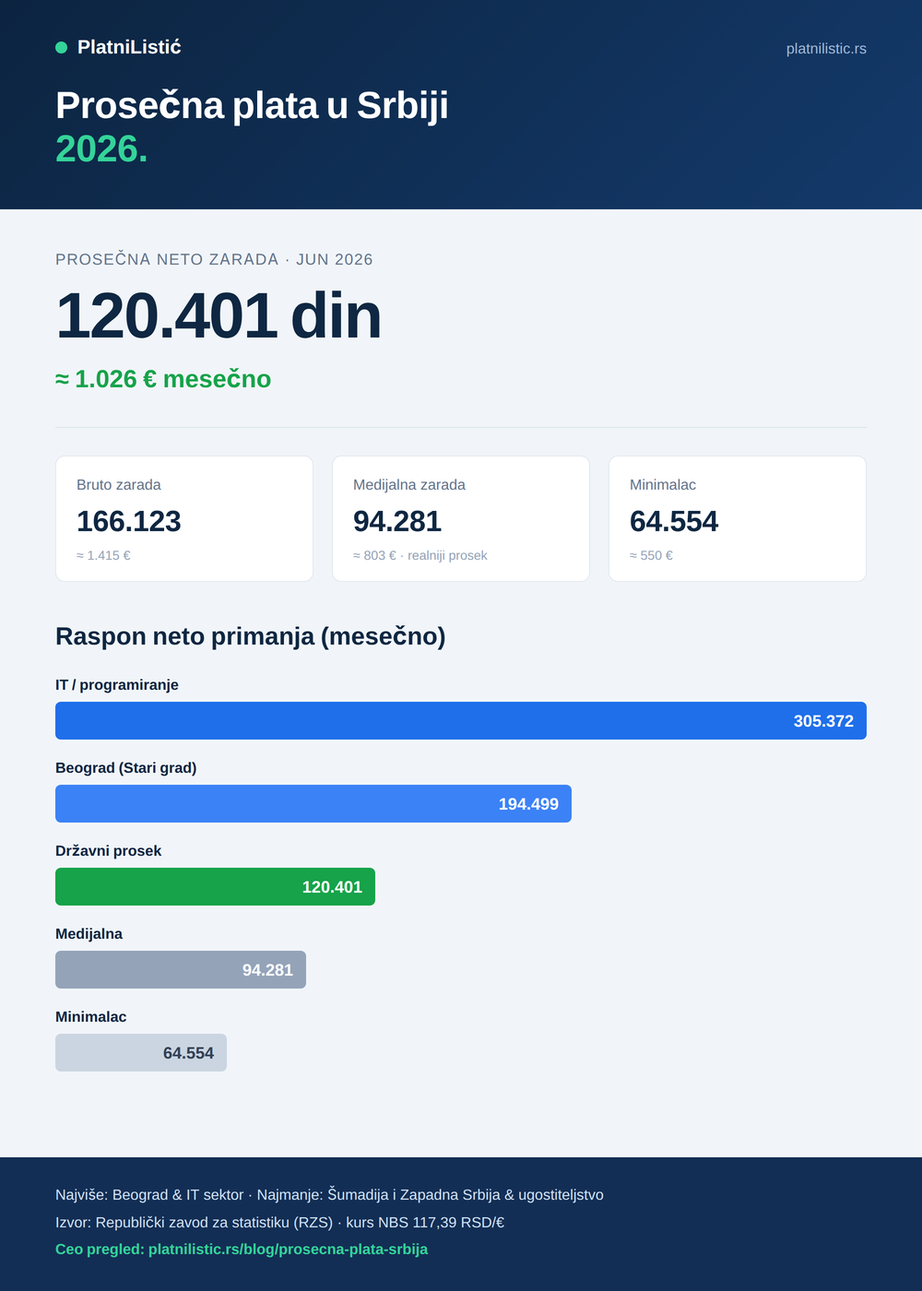
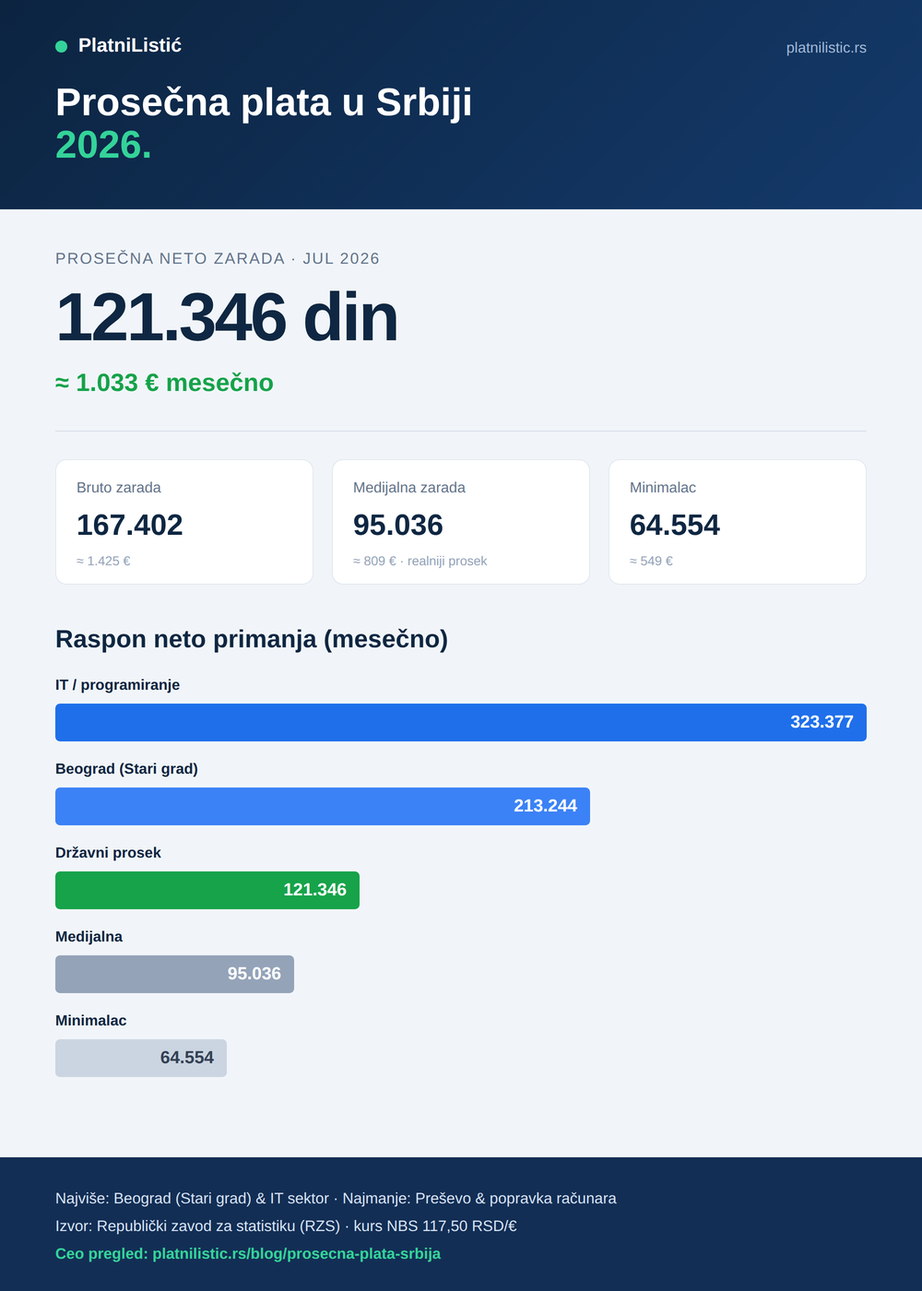
data(rzs): refresh average salary to July 2026 (ZR10 br. 262, 25.9.2026)
Neto 121.346, bruto 167.402, medijalna 95.036; NBS kurs 117,50.
rates.js cascades to /prosecna-zarada, otpremnina, jubilarna and
godišnji porez. Hand-edited: prosecna-plata-srbija (July sector and
opština tables — the three non-Belgrade regions dropped because no July
figure is published for them yet, rather than mixing months), jubilarna
multiples, otkaz 2x example, porodiljsko 5x cap, kupovna moć note,
posts.js title/summaries. All three SVG charts and both PNGs regenerated.

Claude-Session: https://claude.ai/code/session_01N1grpLejUmKifJT8qkwBPE

diff --git a/src/posts/prosecna-plata-srbija.js b/src/posts/prosecna-plata-srbija.js
@@ -1,28 +1,28 @@
 // Body + FAQ for "prosecna-plata-srbija". Split out of posts.js so a reader
 // downloads only the article they open — see loadPostBody() in Blog.jsx.
 export const body = `
-![Prosečna plata u Srbiji, jun 2026 — neto 120.401 dinara (≈1.026 €), bruto 166.123, medijalna 94.281, IT 305.372, minimalac 64.554.](/media/prosecna-plata-2026.png)
+![Prosečna plata u Srbiji, jul 2026 — neto 121.346 dinara (≈1.033 €), bruto 167.402, medijalna 95.036, IT 323.377, minimalac 64.554.](/media/prosecna-plata-2026.png)
 
-> **Provereno i ažurirano: 27. avgusta 2026.** Iznosi su usklađeni sa zvaničnim saopštenjima Republičkog zavoda za statistiku (RZS). Statistika se objavljuje oko 55 dana po isteku meseca, pa je najsvežiji zvaničan podatak za jun 2026 (objavljen 25. avgusta 2026). Konverzija u evre po srednjem kursu NBS (1 € = 117,39 din).
+> **Provereno i ažurirano: 28. septembra 2026.** Iznosi su usklađeni sa zvaničnim saopštenjima Republičkog zavoda za statistiku (RZS). Statistika se objavljuje oko 55 dana po isteku meseca, pa je najsvežiji zvaničan podatak za jul 2026 (objavljen 25. septembra 2026). Konverzija u evre po srednjem kursu NBS na dan 28. septembra 2026 (1 € = 117,50 din).
 
-Prosečna plata u Srbiji iznosi **120.401 dinara neto (≈ 1.026 €)**, odnosno **166.123 dinara bruto** — najnoviji zvaničan podatak RZS-a, za jun 2026. Medijalna neto zarada je **94.281 dinara**: polovina zaposlenih prima manje od tog iznosa, pa medijalna plata bolje opisuje „tipičnu" zaradu od proseka. Neto zarada je u odnosu na maj viša za 2.003 din — uobičajena mesečna varijacija, ne trend. U nastavku: pregled po mesecima, sektorima i gradovima, u dinarima i evrima.
+Prosečna plata u Srbiji iznosi **121.346 dinara neto (≈ 1.033 €)**, odnosno **167.402 dinara bruto** — najnoviji zvaničan podatak RZS-a, za jul 2026. Medijalna neto zarada je **95.036 dinara**: polovina zaposlenih prima manje od tog iznosa, pa medijalna plata bolje opisuje „tipičnu" zaradu od proseka. Neto zarada je u odnosu na jun viša za 945 din — uobičajena mesečna varijacija, ne trend. U nastavku: pregled po mesecima, sektorima i gradovima, u dinarima i evrima.
 
 > **Napomena:** Ovaj tekst je informativnog karaktera. Zvaničan izvor svih iznosa je Republički zavod za statistiku; podaci se menjaju svakog meseca.
 
-## Ključne brojke (jun 2026, RZS)
+## Ključne brojke (jul 2026, RZS)
 
-- **Prosečna neto zarada:** 120.401 din ≈ 1.026 €
-- **Prosečna bruto zarada:** 166.123 din ≈ 1.415 €
-- **Medijalna neto zarada:** 94.281 din ≈ 803 €
-- **Najviše — IT sektor:** ~305.372 din ≈ 2.601 €
-- **Najviše — Beograd (prosek):** 148.687 din ≈ 1.267 €
-- **Najmanje — opština Preševo:** 82.777 din ≈ 705 € (regionalno najniže: Šumadija i Zapadna Srbija, 103.389 din)
+- **Prosečna neto zarada:** 121.346 din ≈ 1.033 €
+- **Prosečna bruto zarada:** 167.402 din ≈ 1.425 €
+- **Medijalna neto zarada:** 95.036 din ≈ 809 €
+- **Najviše — IT sektor (računarsko programiranje):** 323.377 din ≈ 2.752 €
+- **Najviše — Beograd (prosek regiona):** 149.577 din ≈ 1.273 €
+- **Najmanje — opština Preševo:** 83.504 din ≈ 711 €
 
 ## Prosečna plata po mesecima 2026
 
 Prosečna zarada varira iz meseca u mesec, zavisno od isplata bonusa, broja radnih dana i sezonskih kretanja. Trend je tokom 2026. uzlazan, uz izražena mesečna kolebanja:
 
-![Kretanje prosečne neto zarade u Srbiji po mesecima 2026 — januar 118.429, februar 116.127, mart 121.650, april 121.805, maj 118.398, jun 120.401 din.](/media/prosecna-neto-zarada-kretanje-2026.svg)
+![Kretanje prosečne neto zarade u Srbiji po mesecima 2026 — januar 118.429, februar 116.127, mart 121.650, april 121.805, maj 118.398, jun 120.401, jul 121.346 din.](/media/prosecna-neto-zarada-kretanje-2026.svg)
 
 | Mesec 2026. | Bruto zarada | Neto zarada | Medijalna neto |
 |---|---|---|---|
@@ -32,67 +32,71 @@ Prosečna zarada varira iz meseca u mesec, zavisno od isplata bonusa, broja radn
 | April | 168.008 din | 121.805 din | 94.585 din |
 | Maj | 163.470 din | 118.398 din | 93.277 din |
 | Jun | 166.123 din | 120.401 din | 94.281 din |
+| Jul | 167.402 din | 121.346 din | 95.036 din |
 
-U periodu januar–jun 2026, u odnosu na isti period prethodne godine, prosečna neto zarada nominalno je veća za **11,5%**, a realno (nakon inflacije) za **8,4%** — plate i dalje rastu brže od cena. Posmatrano samo za jun 2026. u odnosu na jun 2025, neto zarada je nominalno veća za **12,4%**, a realno za **9,4%**. Kompletna [tabela prosečnih zarada po mesecima](/prosecna-zarada) sa zvaničnim podacima RZS-a dostupna je na posebnoj stranici. Razliku između bruto i neto iznosa objašnjavamo u vodiču [bruto-neto razlika](/), a sastav doprinosa u tekstu [doprinosi u Srbiji](/blog/doprinosi-srbija).
+U periodu januar–jul 2026, u odnosu na isti period prethodne godine, prosečna neto zarada nominalno je veća za **11,4%**, a realno (nakon inflacije) za **8,5%** — plate i dalje rastu brže od cena. Posmatrano samo za jul 2026. u odnosu na jul 2025, neto zarada je nominalno veća za **11,3%**, a realno za **9,2%**. Kompletna [tabela prosečnih zarada po mesecima](/prosecna-zarada) sa zvaničnim podacima RZS-a dostupna je na posebnoj stranici. Razliku između bruto i neto iznosa objašnjavamo u vodiču [bruto-neto razlika](/), a sastav doprinosa u tekstu [doprinosi u Srbiji](/blog/doprinosi-srbija).
 
 ## Medijalna plata u Srbiji 2026
 
-**Medijalna neto plata u Srbiji za jun 2026. iznosi 94.281 din (≈ 803 €)** — polovina zaposlenih zarađuje manje od tog iznosa, a polovina više. Prosečnu platu „naviše vuku" visoke zarade malog broja ljudi (rukovodioci, IT), pa **medijalna zarada** realnije opisuje tipičnu platu: iznos koji deli zaposlene na dve jednake polovine. Drugim rečima, tipičan zaposleni u Srbiji zarađuje oko **26.120 din manje** od „prosečne" plate od 120.401 din.
+**Medijalna neto plata u Srbiji za jul 2026. iznosi 95.036 din (≈ 809 €)** — polovina zaposlenih zarađuje manje od tog iznosa, a polovina više. Prosečnu platu „naviše vuku" visoke zarade malog broja ljudi (rukovodioci, IT), pa **medijalna zarada** realnije opisuje tipičnu platu: iznos koji deli zaposlene na dve jednake polovine. Drugim rečima, tipičan zaposleni u Srbiji zarađuje oko **26.310 din manje** od „prosečne" plate od 121.346 din.
 
 ## Prosečna plata u Beogradu 2026
 
-**Prosečna neto plata u Beogradu za jun 2026. iznosi oko 148.687 din (≈ 1.267 €)** — osetno iznad državnog proseka. Najbogatija opština je Stari grad sa 194.499 din neto; veći broj beogradskih opština premašuje državni prosek (uključujući Vračar, Novi Beograd, Voždovac i Zvezdaru). Detaljan pregled po opštinama i regionima je u tabeli niže.
+**Prosečna neto plata u Beogradu za jul 2026. iznosi 149.577 din (≈ 1.273 €)** — osetno iznad državnog proseka. Najbogatija opština je Stari grad sa 213.244 din neto, a slede Vračar (196.384 din) i Savski venac (195.256 din). Detaljan pregled po opštinama i regionima je u tabeli niže.
 
 ## Prosečna plata po sektorima
 
-Razlike među granama su ogromne — najplaćeniji i najmanje plaćeni sektor deli više od 230.000 din mesečno:
+Razlike među granama su ogromne — najplaćeniji i najmanje plaćeni sektor deli više od 250.000 din mesečno:
 
-![Raspon neto primanja u Srbiji — IT 305.372, Beograd Stari grad 194.499, državni prosek (jun 2026) 120.401, medijalna 94.281, minimalac 64.554 din.](/media/raspon-neto-primanja-srbija-2026.svg)
+![Raspon neto primanja u Srbiji — IT 323.377, Beograd Stari grad 213.244, državni prosek (jul 2026) 121.346, medijalna 95.036, minimalac 64.554 din.](/media/raspon-neto-primanja-srbija-2026.svg)
 
-| Sektor | Prosečna neto zarada (jun 2026.) |
+| Sektor | Prosečna neto zarada (jul 2026.) |
 |---|---|
-| Računarsko programiranje i IT usluge | ~305.372 din (najviša) |
-| Vazdušni saobraćaj | ~269.138 din |
-| Naučnoistraživački rad | ~226.223 din |
-| Telekomunikacije | ~185.476 din |
-| Finansije i osiguranje | ~173.899 din |
-| Rudarstvo | ~150.612 din |
-| Prerađivačka industrija | ~110.704 din |
-| Trgovina na veliko i malo | ~101.131 din |
-| Ugostiteljstvo (priprema i posluživanje hrane) | ~71.394 din (najniža, oko 4,3× manje od IT-a) |
+| Računarsko programiranje | 323.377 din (najviša) |
+| Vazdušni saobraćaj | 272.463 din |
+| Informisanje i komunikacije (ukupno) | 259.913 din |
+| Naučnoistraživački razvoj | 234.963 din |
+| Finansijske usluge | 184.946 din |
+| Vađenje ruda metala | 178.314 din |
+| Telekomunikacije | 176.813 din |
+| Osiguranje i penzijski fondovi | 164.968 din |
+| Trgovina na malo | 86.831 din |
+| Priprema i posluživanje hrane | 72.819 din |
+| Popravka računara i predmeta za ličnu upotrebu | 72.451 din (najniža, oko 4,5× manje od programiranja) |
 
-Najviše zarađuje **informaciono-komunikacioni sektor** — prosečna neto plata u računarskom programiranju iznosi 305.372 din, više od 2,5 puta iznad državnog proseka. Odmah iza su vazdušni saobraćaj i naučnoistraživački rad. Na dnu su ugostiteljstvo, tekstilna industrija i delovi trgovine.
+Najviše zarađuje **informaciono-komunikacioni sektor** — prosečna neto plata u računarskom programiranju iznosi 323.377 din, više od 2,5 puta iznad državnog proseka. Odmah iza su vazdušni saobraćaj i naučnoistraživački razvoj. Na dnu su popravka računara, ugostiteljstvo, prerada drveta i trgovina na malo.
 
 ## Prosečna plata po gradovima i regionima
 
 Geografske razlike su jednako velike:
 
-![Prosečna neto plata po gradovima, jun 2026 — Stari grad 194.499, Beogradski region 148.687, državni prosek 120.401, Vojvodina 113.637, Šumadija i Zapadna Srbija 103.389 din.](/media/prosecna-plata-po-gradovima-2026.svg)
+![Prosečna neto plata po opštinama, jul 2026 — Stari grad 213.244, Vračar 196.384, Beogradski region 149.577, državni prosek 121.346, Preševo 83.504 din.](/media/prosecna-plata-po-gradovima-2026.svg)
 
-| Region / opština | Neto zarada (jun 2026.) |
+| Region / opština | Neto zarada (jul 2026.) |
 |---|---|
-| Stari grad (Beograd) | 194.499 din |
-| Beogradski region | 148.687 din |
-| Državni prosek | 120.401 din |
-| Vojvodina | 113.637 din |
-| Južna i istočna Srbija | 104.992 din |
-| Šumadija i Zapadna Srbija | 103.389 din (regionalno najniža) |
-| Opština Preševo | 82.777 din (opštinski najniža u zemlji) |
+| Stari grad (Beograd) | 213.244 din (opštinski najviša) |
+| Vračar (Beograd) | 196.384 din |
+| Savski venac (Beograd) | 195.256 din |
+| Beogradski region | 149.577 din |
+| Državni prosek | 121.346 din |
+| Bojnik | 86.799 din |
+| Trgovište | 84.271 din |
+| Opština Preševo | 83.504 din (opštinski najniža u zemlji) |
 
-**Beograd ubedljivo prednjači** — prosečna neto plata je oko 149.000 din, a najbogatija opština, Stari grad, ima 194.499 din neto. Regionalno su najniže zarade u Šumadiji i Zapadnoj Srbiji, ali pojedinačno najniže plaćena opština u zemlji je Preševo (82.777 din), uz Trgovište, Bojnik i Vlasotince koji takođe ne prelaze 85.000 din.
+**Beograd ubedljivo prednjači** — prosečna neto plata u Beogradskom regionu je 149.577 din, a najbogatija opština, Stari grad, ima 213.244 din neto. Na drugom kraju je Preševo (83.504 din), najniže plaćena opština u zemlji, uz Trgovište (84.271 din) i Bojnik (86.799 din). Razlika između najbogatije i najsiromašnije opštine je više od 2,5 puta.
 
 ## Prosečna plata u evrima
 
-Po srednjem kursu NBS od **117,39 din za 1 €**, ključni iznosi su:
+Po srednjem kursu NBS od **117,50 din za 1 €**, ključni iznosi su:
 
 | Pokazatelj (neto, mesečno) | Dinari | Evri |
 |---|---|---|
-| Prosečna bruto zarada | 166.123 | ≈ 1.415 € |
-| Prosečna neto zarada | 120.401 | ≈ 1.026 € |
-| Medijalna neto zarada | 94.281 | ≈ 803 € |
-| Beograd (prosek, neto) | 148.687 | ≈ 1.267 € |
-| IT sektor (neto) | 305.372 | ≈ 2.601 € |
-| Minimalac (neto) | 64.554 | ≈ 550 € |
+| Prosečna bruto zarada | 167.402 | ≈ 1.425 € |
+| Prosečna neto zarada | 121.346 | ≈ 1.033 € |
+| Medijalna neto zarada | 95.036 | ≈ 809 € |
+| Beograd (prosek, neto) | 149.577 | ≈ 1.273 € |
+| IT sektor (neto) | 323.377 | ≈ 2.752 € |
+| Minimalac (neto) | 64.554 | ≈ 549 € |
 
 Kurs dinara prema evru kreće se u uskom rasponu (oko 117 din/€), pa se iznosi u evrima menjaju malo iz meseca u mesec.
 
@@ -110,7 +114,7 @@ Neto zarada prati isti trend i čini približno 72% bruto iznosa. Ovo je nominal
 
 ## Prosečna plata vs. minimalac i penzija
 
-Minimalna zarada u 2026. iznosi 371 din neto po radnom času, odnosno oko **64.554 din (≈ 550 €)** mesečno za prosečan fond sati — detaljnije u vodiču [minimalna zarada 2026](/minimalna-zarada). Minimalac je tako oko **68% medijalne** i tek oko **54% prosečne** neto zarade. Raspon primanja je izuzetno širok — od zakonskog minimuma do IT plata skoro pet puta većih.
+Minimalna zarada u 2026. iznosi 371 din neto po radnom času, odnosno oko **64.554 din (≈ 549 €)** mesečno za prosečan fond sati — detaljnije u vodiču [minimalna zarada 2026](/minimalna-zarada). Minimalac je tako oko **68% medijalne** i tek oko **53% prosečne** neto zarade. Raspon primanja je izuzetno širok — od zakonskog minimuma do IT plata oko pet puta većih.
 
 ## Kako se prosečna plata obračunava
 
@@ -120,7 +124,7 @@ RZS prosečnu zaradu računa na osnovu poreske prijave PPP-PD koju podnose svi p
 
 Cela slika prosečne plate u Srbiji 2026. na jednom mestu — slobodno sačuvajte ili podelite infografiku (uz link ka izvoru):
 
-![Infografika: prosečna plata u Srbiji, jun 2026 — neto 120.401 din (≈1.026 €), bruto 166.123, medijalna 94.281, minimalac 64.554 i raspon neto primanja od minimalca do IT sektora. Izvor: RZS.](/media/infografik-prosecna-plata-2026.png)
+![Infografika: prosečna plata u Srbiji, jul 2026 — neto 121.346 din (≈1.033 €), bruto 167.402, medijalna 95.036, minimalac 64.554 i raspon neto primanja od minimalca do IT sektora. Izvor: RZS.](/media/infografik-prosecna-plata-2026.png)
 
 ## Izvori i korisni linkovi
 
@@ -130,13 +134,13 @@ Cela slika prosečne plate u Srbiji 2026. na jednom mestu — slobodno sačuvajt
     `;
 
 export const faq = [
-  { q: "Kolika je prosečna plata u Srbiji 2026?", a: "Prosečna neto plata za jun 2026. iznosi 120.401 dinara (oko 1.026 evra), a bruto 166.123 dinara, prema podacima RZS-a. Tokom prvih šest meseci 2026. neto prosek se kretao između 116.000 i 122.000 dinara." },
-  { q: "Kolika je prosečna plata u Srbiji u evrima?", a: "Po srednjem kursu NBS (117,39 dinara za 1 evro), prosečna neto plata od 120.401 dinara iznosi približno 1.026 evra mesečno, a bruto zarada oko 1.415 evra." },
-  { q: "Kolika je prosečna bruto zarada 2026?", a: "Prosečna bruto zarada u Srbiji za jun 2026. iznosi 166.123 dinara (oko 1.415 evra), prema RZS-u. Bruto zarada je iznos pre poreza i doprinosa; neto (na ruke) je 120.401 dinara." },
-  { q: "Kolika je medijalna plata u Srbiji?", a: "Medijalna neto zarada za jun 2026. iznosi 94.281 dinara (oko 803 evra). To znači da polovina zaposlenih zarađuje manje od tog iznosa, pa je medijalna plata realnija slika od proseka." },
-  { q: "Kolika je prosečna plata u Beogradu 2026?", a: "Prosečna neto plata u Beogradu za jun 2026. iznosi oko 148.687 dinara (≈ 1.267 evra) — iznad državnog proseka. Najbogatija opština, Stari grad, ima 194.499 dinara neto." },
-  { q: "Da li većina ljudi zarađuje prosečnu platu?", a: "Ne. Većina zaposlenih zarađuje ispod proseka. Tipičnu zaradu bolje opisuje medijalna plata (oko 94.300 dinara) nego prosek (oko 120.400 dinara), jer prosek podižu visoke plate u IT-u i menadžmentu." },
-  { q: "Koji sektor ima najveću platu u Srbiji?", a: "Najviše zarađuje IT sektor — prosečna neto plata u računarskom programiranju iznosi 305.372 dinara, više od 2,5 puta iznad državnog proseka. Najmanje se zarađuje u ugostiteljstvu." },
-  { q: "Koji grad ima najveću prosečnu platu?", a: "Beograd, sa prosečnom neto zaradom od oko 149.000 dinara. Najbogatija opština je Stari grad, sa 194.499 dinara neto." },
+  { q: "Kolika je prosečna plata u Srbiji 2026?", a: "Prosečna neto plata za jul 2026. iznosi 121.346 dinara (oko 1.033 evra), a bruto 167.402 dinara, prema podacima RZS-a. Tokom prvih sedam meseci 2026. neto prosek se kretao između 116.000 i 122.000 dinara." },
+  { q: "Kolika je prosečna plata u Srbiji u evrima?", a: "Po srednjem kursu NBS (117,50 dinara za 1 evro), prosečna neto plata od 121.346 dinara iznosi približno 1.033 evra mesečno, a bruto zarada oko 1.425 evra." },
+  { q: "Kolika je prosečna bruto zarada 2026?", a: "Prosečna bruto zarada u Srbiji za jul 2026. iznosi 167.402 dinara (oko 1.425 evra), prema RZS-u. Bruto zarada je iznos pre poreza i doprinosa; neto (na ruke) je 121.346 dinara." },
+  { q: "Kolika je medijalna plata u Srbiji?", a: "Medijalna neto zarada za jul 2026. iznosi 95.036 dinara (oko 809 evra). To znači da polovina zaposlenih zarađuje manje od tog iznosa, pa je medijalna plata realnija slika od proseka." },
+  { q: "Kolika je prosečna plata u Beogradu 2026?", a: "Prosečna neto plata u Beogradu (Beogradski region) za jul 2026. iznosi 149.577 dinara (≈ 1.273 evra) — iznad državnog proseka. Najbogatija opština, Stari grad, ima 213.244 dinara neto." },
+  { q: "Da li većina ljudi zarađuje prosečnu platu?", a: "Ne. Većina zaposlenih zarađuje ispod proseka. Tipičnu zaradu bolje opisuje medijalna plata (oko 95.000 dinara) nego prosek (oko 121.300 dinara), jer prosek podižu visoke plate u IT-u i menadžmentu." },
+  { q: "Koji sektor ima najveću platu u Srbiji?", a: "Najviše zarađuje IT sektor — prosečna neto plata u računarskom programiranju iznosi 323.377 dinara, više od 2,5 puta iznad državnog proseka. Najmanje se zarađuje u popravci računara i ugostiteljstvu." },
+  { q: "Koji grad ima najveću prosečnu platu?", a: "Beograd, sa prosečnom neto zaradom od 149.577 dinara. Najbogatija opština je Stari grad, sa 213.244 dinara neto." },
   { q: "Da li je prosečna plata bruto ili neto?", a: "Statistika objavljuje oba iznosa. Na ruke se dobija neto plata, dok je bruto iznos pre poreza i doprinosa." },
 ];

diff --git a/src/posts/porodiljsko-odsustvo.js b/src/posts/porodiljsko-odsustvo.js
@@ -19,13 +19,13 @@ const GODINA = _danas.getFullYear();
 export const body = `
 ![Porodiljsko odsustvo 2026 — naknada zarade, obračun i isplata](https://images.unsplash.com/photo-1555252333-9f8e92e65df9?w=800&fm=webp&q=70)
 
-> **Provereno i ažurirano: 27. avgust 2026.** Pravila su usklađena sa važećim **Zakonom o finansijskoj podršci porodici sa decom** (čl. 12–20, sa izmenama iz novembra 2024) i **Zakonom o radu** (čl. 94–100). Iznosi vezani za prosečnu zaradu računati su prema poslednjem podatku RZS-a (jun 2026: 166.123 RSD bruto / 120.401 RSD neto), a minimalna zarada prema ceni radnog časa od 371 RSD za 2026.
+> **Provereno i ažurirano: 28. septembar 2026.** Pravila su usklađena sa važećim **Zakonom o finansijskoj podršci porodici sa decom** (čl. 12–20, sa izmenama iz novembra 2024) i **Zakonom o radu** (čl. 94–100). Iznosi vezani za prosečnu zaradu računati su prema poslednjem podatku RZS-a (jul 2026: 167.402 RSD bruto / 121.346 RSD neto), a minimalna zarada prema ceni radnog časa od 371 RSD za 2026.
 
 Porodiljsko odsustvo je pravo zaposlene žene (a u posebnim slučajevima i oca) na plaćeno odsustvo povodom rođenja deteta. Naknadu ne isplaćuje poslodavac, već država — direktno na račun porodilje, **po pravilu oko 20. u mesecu**. U ovom vodiču je tačan obračun naknade po pravilima koja važe u 2026, sa primerima u dinarima, minimumom i maksimumom, i posebnim delom za preduzetnice i paušalke.
 
 **Isplata u ${MESEC_LOK} ${GODINA}:** zakon ne propisuje kalendarski datum isplate. Ciklus je vezan za rokove iz čl. 16 Zakona o finansijskoj podršci porodici sa decom — korisnica promene prijavljuje **do 8.**, nadležni organ ih evidentira **do 15.** — a centralizovana isplata sledi kada Poreska uprava prihvati poresku prijavu koju podnosi ministarstvo (čl. 14 st. 5 i 7). Zato novac po pravilu stiže **oko 20.**, ali tačan dan varira iz meseca u mesec i ne objavljuje se unapred. Ceo ciklus je razložen u nastavku.
 
-**Ukratko:** naknada zarade = zbir osnovica na koje su plaćeni doprinosi u **18 meseci** pre odsustva ÷ 18. Mesečna osnovica ne može biti veća od **5 prosečnih zarada** (≈ 830.615 RSD bruto za prava koja počinju sredinom 2026). Tokom **prva 3 meseca** (porodiljsko odsustvo) pun mesečni iznos ne može biti manji od **minimalne zarade**; tokom nege deteta (od 4. do 12. meseca) taj minimum ne važi.
+**Ukratko:** naknada zarade = zbir osnovica na koje su plaćeni doprinosi u **18 meseci** pre odsustva ÷ 18. Mesečna osnovica ne može biti veća od **5 prosečnih zarada** (≈ 837.010 RSD bruto za prava koja počinju sredinom 2026). Tokom **prva 3 meseca** (porodiljsko odsustvo) pun mesečni iznos ne može biti manji od **minimalne zarade**; tokom nege deteta (od 4. do 12. meseca) taj minimum ne važi.
 
 > **Napomena:** Tekst je informativnog karaktera i ne zamenjuje pravni savet. Pri izmeni propisa tekst se hitno usklađuje.
 
@@ -98,7 +98,7 @@ Ovo je detalj koji mnogi vodiči preskaču: **zakonski minimalac važi samo za v
 ## Minimalna i maksimalna naknada u 2026
 
 - **Minimum (prva 3 meseca):** minimalna cena rada na dan početka prava × 184 sata, uvećano za poreze i doprinose. Za 2026: 371 RSD × 184 = **68.264 RSD neto** (≈ 92.499 RSD bruto). Više o minimalcu: [minimalna zarada 2026](/minimalna-zarada).
-- **Maksimum:** mesečna osnovica ne može biti veća od **5 prosečnih mesečnih zarada** u RS prema poslednjem objavljenom RZS podatku na dan početka prava. Sa prosekom za jun 2026 (166.123 RSD bruto) to je **830.615 RSD bruto** mesečne osnovice. Do 2022. limit je bio 3 prosečne zarade — podatak „tri prosečne" koji se još sreće po tekstovima je zastareo.
+- **Maksimum:** mesečna osnovica ne može biti veća od **5 prosečnih mesečnih zarada** u RS prema poslednjem objavljenom RZS podatku na dan početka prava. Sa prosekom za jul 2026 (167.402 RSD bruto) to je **837.010 RSD bruto** mesečne osnovice. Do 2022. limit je bio 3 prosečne zarade — podatak „tri prosečne" koji se još sreće po tekstovima je zastareo.
 
 ## Preduzetnice, paušalke i frilenserke — „ostale naknade"
 
@@ -127,13 +127,13 @@ Zahtev za naknadu zarade podnosi se **nadležnom organu jedinice lokalne samoupr
 
 - [Zakon o finansijskoj podršci porodici sa decom](https://www.paragraf.rs/propisi/zakon-o-finansijskoj-podrsci-porodici-sa-decom.html) — čl. 12–20 (naknada zarade, ostale naknade, minimum i maksimum), čl. 14 st. 5 i 7 (ko podnosi poresku prijavu i vrši centralizovanu isplatu), čl. 16 st. 2 i 3 (rokovi 8. i 15. u mesecu)
 - Zakon o radu, čl. 94–100 (porodiljsko odsustvo i odsustvo radi nege deteta)
-- RZS — prosečna zarada, jun 2026 (objavljeno 25. avgusta 2026); [pregled prosečnih zarada](/prosecna-zarada)
+- RZS — prosečna zarada, jul 2026 (objavljeno 25. septembra 2026); [pregled prosečnih zarada](/prosecna-zarada)
 `;
 
 export const faq = [
   { q: "Koliko traje porodiljsko odsustvo u 2026?", a: "Ukupno 365 dana za prvo i drugo dete — porodiljsko odsustvo (od 28–45 dana pre termina do 3 meseca posle porođaja) plus odsustvo radi nege deteta do godinu dana. Za treće i svako naredno dete ukupno traje 2 godine." },
   { q: "Kako se računa naknada za porodiljsko odsustvo?", a: "Saberu se osnovice na koje su plaćeni doprinosi za poslednjih 18 meseci pre odsustva i podele sa 18 — i kada je rađeno kraće od 18 meseci. Dobijena mesečna osnovica je bruto iznos; na račun stiže neto, kao kod zarade." },
-  { q: "Kolika je maksimalna naknada za porodiljsko u 2026?", a: "Mesečna osnovica ne može biti veća od 5 prosečnih zarada u Srbiji prema poslednjem RZS podatku na dan početka prava — sa prosekom za jun 2026 (166.123 RSD bruto) to je 830.615 RSD bruto. Limit od 3 prosečne zarade ne važi od 2022." },
+  { q: "Kolika je maksimalna naknada za porodiljsko u 2026?", a: "Mesečna osnovica ne može biti veća od 5 prosečnih zarada u Srbiji prema poslednjem RZS podatku na dan početka prava — sa prosekom za jul 2026 (167.402 RSD bruto) to je 837.010 RSD bruto. Limit od 3 prosečne zarade ne važi od 2022." },
   { q: "Kolika je minimalna naknada za porodiljsko?", a: "Tokom porodiljskog odsustva (prva 3 meseca) pun mesečni iznos ne može biti manji od minimalne zarade obračunate na 184 sata — za 2026. oko 68.264 RSD neto. Tokom odsustva radi nege deteta (od 4. meseca) taj minimum ne važi." },
   { q: "Ko isplaćuje porodiljsko i kada?", a: "Ministarstvo nadležno za finansijsku podršku porodici sa decom, iz budžeta RS, direktno na tekući račun korisnice — po pravilu oko 20. u mesecu. Poslodavac ne isplaćuje naknadu za porodiljsko odsustvo." },
   { q: `Kada je isplata porodiljskog za ${MESEC} ${GODINA}?`, a: `Zakon ne propisuje tačan datum. Promene prijavljene do 8. ${MESEC_GEN} i evidentirane do 15. ${MESEC_GEN} (čl. 16) ulaze u obračun, posle čega ministarstvo podnosi poresku prijavu, pa se isplata očekuje oko 20. ${MESEC_GEN} ${GODINA}. Tačan dan varira iz meseca u mesec i ne objavljuje se unapred.` },

diff --git a/src/posts/jubilarna-nagrada.js b/src/posts/jubilarna-nagrada.js
@@ -3,7 +3,7 @@
 export const body = `
 ![Jubilarna nagrada za godine staža](https://images.unsplash.com/photo-1559526324-4b87b5e36e44?w=800&q=80)
 
-> **Provereno i ažurirano: 27. avgust 2026.** Neoporezivi iznos od **28.912 RSD** važi za isplate od 1.2.2026. do 31.1.2027. („Sl. glasnik RS" 6/2026, ZPDG čl. 18 tač. 9). Poreski tretman proveren uz Zakon o radu (čl. 105 st. 3, čl. 120 tač. 1) i Zakon o porezu na dohodak građana. Prosečna bruto zarada: 166.123 RSD (RZS, jun 2026).
+> **Provereno i ažurirano: 28. septembar 2026.** Neoporezivi iznos od **28.912 RSD** važi za isplate od 1.2.2026. do 31.1.2027. („Sl. glasnik RS" 6/2026, ZPDG čl. 18 tač. 9). Poreski tretman proveren uz Zakon o radu (čl. 105 st. 3, čl. 120 tač. 1) i Zakon o porezu na dohodak građana. Prosečna bruto zarada: 167.402 RSD (RZS, jul 2026).
 
 **Jubilarna nagrada** je jednokratna isplata zaposlenom povodom navršenih „okruglih" godina rada kod istog poslodavca. Poreski je povlašćena — ali drugačije nego što većina tekstova na internetu tvrdi: neoporeziv je fiksan godišnji iznos, a na ostatak se plaća samo porez, bez doprinosa.
 
@@ -28,14 +28,14 @@ Druga stvar koju vodiči često pogreše: deo iznad neoporezivog iznosa **ne ter
 
 ## Koliko iznosi jubilarna nagrada za 10, 20, 30 i 40 godina?
 
-Visinu određuje kolektivni ugovor ili ugovor o radu kod vašeg poslodavca. Uobičajena praksa, uz prosečnu bruto zaradu od 166.123 RSD (RZS, jun 2026):
+Visinu određuje kolektivni ugovor ili ugovor o radu kod vašeg poslodavca. Uobičajena praksa, uz prosečnu bruto zaradu od 167.402 RSD (RZS, jul 2026):
 
 | Jubilej | Uobičajena visina isplate | Neoporezivo (fiksno) |
 |---|---|---|
-| 10 godina rada | 1× prosek ≈ 166.123 RSD | 28.912 RSD |
-| 20 godina rada | 2× prosek ≈ 332.246 RSD | 28.912 RSD |
-| 30 godina rada | 2,5× prosek ≈ 415.308 RSD | 28.912 RSD |
-| 40 godina rada | 3× prosek ≈ 498.369 RSD | 28.912 RSD |
+| 10 godina rada | 1× prosek ≈ 167.402 RSD | 28.912 RSD |
+| 20 godina rada | 2× prosek ≈ 334.804 RSD | 28.912 RSD |
+| 30 godina rada | 2,5× prosek ≈ 418.505 RSD | 28.912 RSD |
+| 40 godina rada | 3× prosek ≈ 502.206 RSD | 28.912 RSD |
 
 Kod privatnih poslodavaca visina može biti bilo koja — od simbolične do više prosečnih zarada; presudan je akt koji je poslodavac doneo ili potpisao. Kako se kreće prosečna zarada koja služi kao orijentir, pratite u pregledu [prosečne plate u Srbiji](/blog/prosecna-plata-srbija).
 
@@ -101,9 +101,9 @@ Pogledajte i kako se obračunava [otpremnina pri penzionisanju](/blog/otpremnina
 
 export const faq = [
   { q: "Koliki je neoporezivi iznos jubilarne nagrade u 2026?", a: "28.912 RSD godišnje, za isplate od 1. februara 2026. do 31. januara 2027. (ZPDG čl. 18 tač. 9, „Sl. glasnik RS” 6/2026). Iznos je fiksan — isti za sve jubileje i ne zavisi od prosečne zarade." },
-  { q: "Koliko iznosi jubilarna nagrada za 20 godina?", a: "Visinu određuje kolektivni ugovor ili ugovor o radu; uobičajeno je dve prosečne bruto zarade — uz prosek od 166.123 RSD oko 332.246 RSD. Od toga je neoporezivo 28.912 RSD, a na ostatak se plaća samo porez od 10%, bez doprinosa." },
-  { q: "Koliko iznosi jubilarna nagrada za 10 godina?", a: "Uobičajeno jedna prosečna bruto zarada u RS — oko 166.123 RSD — ali visina zavisi isključivo od kolektivnog ugovora ili ugovora o radu kod poslodavca." },
-  { q: "Koliko iznosi jubilarna nagrada za 30 i 40 godina staža?", a: "Uobičajeno 2,5 prosečne zarade za 30 godina (≈ 415.308 RSD) i 3 prosečne za 40 godina (≈ 498.369 RSD). To je visina isplate iz kolektivnih ugovora, a ne poreski limit — neoporezivo je uvek 28.912 RSD." },
+  { q: "Koliko iznosi jubilarna nagrada za 20 godina?", a: "Visinu određuje kolektivni ugovor ili ugovor o radu; uobičajeno je dve prosečne bruto zarade — uz prosek od 167.402 RSD oko 334.804 RSD. Od toga je neoporezivo 28.912 RSD, a na ostatak se plaća samo porez od 10%, bez doprinosa." },
+  { q: "Koliko iznosi jubilarna nagrada za 10 godina?", a: "Uobičajeno jedna prosečna bruto zarada u RS — oko 167.402 RSD — ali visina zavisi isključivo od kolektivnog ugovora ili ugovora o radu kod poslodavca." },
+  { q: "Koliko iznosi jubilarna nagrada za 30 i 40 godina staža?", a: "Uobičajeno 2,5 prosečne zarade za 30 godina (≈ 418.505 RSD) i 3 prosečne za 40 godina (≈ 502.206 RSD). To je visina isplate iz kolektivnih ugovora, a ne poreski limit — neoporezivo je uvek 28.912 RSD." },
   { q: "Da li se na jubilarnu nagradu plaćaju doprinosi?", a: "Ne. Jubilarna nagrada nema karakter zarade (čl. 105 st. 3 Zakona o radu), pa se doprinosi ne plaćaju ni na jedan deo. Na deo iznad 28.912 RSD plaća se samo porez na zarade od 10%." },
   { q: "Kako izgleda primer obračuna jubilarne nagrade?", a: "Poslodavac za 20 godina staža isplaćuje 300.000 RSD: neoporezivo je 28.912 RSD, oporezivi deo je 271.088 RSD, porez 10% iznosi 27.109 RSD, doprinosa nema — zaposleni na račun prima 272.891 RSD." },
 ];

diff --git a/src/posts.js b/src/posts.js
@@ -23,7 +23,7 @@ export const POSTS = [
   {
     id: "kupovna-moc-plate-2016-2026",
     date: "4. avgust 2026",
-    updated: "27. avgust 2026",
+    updated: "28. septembar 2026",
     tag: "Data studija",
     title: "Kupovna moć plate u Srbiji 2016–2026: realno +53%",
     summary: "Plata iz 2016. vredela je koliko danas vredi 71.558 din — a prosečna je danas 109.462. Realan rast kupovne moći je 53%, uz jedini pad 2022. Ko je zaista najviše dobio (RZS podaci).",
@@ -135,7 +135,7 @@ export const POSTS = [
   {
     id: "porodiljsko-odsustvo",
     date: "11. jul 2026",
-    updated: "27. avgust 2026",
+    updated: "28. septembar 2026",
     tag: "Zakon o radu",
     title: "Porodiljsko odsustvo 2026 — naknada, obračun i isplata",
     summary: "Isplata porodiljskog stiže po pravilu oko 20. u mesecu — zakon ne fiksira datum. Naknada = prosek osnovica za 18 meseci, najviše 5 prosečnih zarada.",
@@ -144,7 +144,7 @@ export const POSTS = [
   {
     id: "otkaz-ugovora-o-radu",
     date: "25. jun 2026",
-    updated: "27. avgust 2026",
+    updated: "28. septembar 2026",
     tag: "Zakon o radu",
     title: "Otkaz ugovora o radu 2026 — razlozi, postupak i otpremnina",
     summary: "Otkaz ugovora o radu 2026: razlozi za otkaz po Zakonu o radu, otkazni rok (8–30 dana), otpremnina za tehnološki višak i prava zaposlenog. Obračun sa primerom.",
@@ -153,10 +153,10 @@ export const POSTS = [
   {
     id: "prosecna-plata-srbija",
     date: "19. jun 2026",
-    updated: "27. avgust 2026",
+    updated: "28. septembar 2026",
     tag: "Zarada",
-    title: "Prosečna plata u Srbiji 2026: 120.401 din (1.026 €), jun",
-    summary: "120.401 din (≈1.026 €) — prosečna neto plata u Srbiji, jun 2026 (RZS). Bruto 166.123, medijalna 94.281 din. Pregled po mesecima, sektorima i gradovima.",
+    title: "Prosečna plata u Srbiji 2026: 121.346 din (1.033 €), jul",
+    summary: "121.346 din (≈1.033 €) — prosečna neto plata u Srbiji, jul 2026 (RZS). Bruto 167.402, medijalna 95.036 din. Pregled po mesecima, sektorima i gradovima.",
     ogImage: "https://www.platnilistic.rs/media/prosecna-plata-2026.png",
     hasFaq: true,
   },
@@ -298,7 +298,7 @@ export const POSTS = [
   {
     id: "jubilarna-nagrada",
     date: "15. februar 2026",
-    updated: "27. avgust 2026",
+    updated: "28. septembar 2026",
     tag: "Porez",
     title: "Jubilarna nagrada 2026 — iznos, porez i neoporezivih 28.912",
     summary: "Jubilarna nagrada 2026: visina je stvar kolektivnog ugovora (obično 1–3 prosečne zarade), neoporezivo je 28.912 RSD godišnje, a iznad se plaća samo porez 10% — bez doprinosa.",
@@ -369,10 +369,10 @@ export const POSTS = [
   {
     id: "otpremnina-obracun",
     date: "5. januar 2026",
-    updated: "1. septembar 2026",
+    updated: "28. septembar 2026",
     tag: "Zakon o radu",
     title: "Otpremnina za penziju i tehnološki višak — iznos, obračun i porez",
-    summary: "Otpremnina za odlazak u penziju: najmanje 2 prosečne zarade RS (240.802 RSD, jun 2026). Za tehnološki višak: min. 1/3 zarade po godini staža. Obračun i porez.",
+    summary: "Otpremnina za odlazak u penziju: najmanje 2 prosečne zarade RS (242.692 RSD, jul 2026). Za tehnološki višak: min. 1/3 zarade po godini staža. Obračun i porez.",
     hasFaq: true,
   },
 ];

diff --git a/src/posts/otkaz-ugovora-o-radu.js b/src/posts/otkaz-ugovora-o-radu.js
@@ -3,7 +3,7 @@
 export const body = `
 ![Otkaz ugovora o radu 2026 — razlozi, postupak i otpremnina](https://images.unsplash.com/photo-1521791136064-7986c2920216?w=800&fm=webp&q=70)
 
-> **Provereno i ažurirano: 27. avgust 2026.** Rokovi i pravila usklađeni su sa važećim **Zakonom o radu** („Sl. glasnik RS", sa izmenama). Iznosi otpremnine vezani za prosečnu zaradu računati su prema poslednjem zvaničnom podatku RZS-a (prosečna neto zarada za jun 2026: 120.401 din).
+> **Provereno i ažurirano: 28. septembar 2026.** Rokovi i pravila usklađeni su sa važećim **Zakonom o radu** („Sl. glasnik RS", sa izmenama). Iznosi otpremnine vezani za prosečnu zaradu računati su prema poslednjem zvaničnom podatku RZS-a (prosečna neto zarada za jul 2026: 121.346 din).
 
 Otkaz ugovora o radu je prestanak radnog odnosa voljom jedne strane — poslodavca ili zaposlenog. Poslodavac može otkazati ugovor **samo iz zakonom propisanog razloga** i uz propisan postupak, dok zaposleni daje otkaz slobodno, uz otkazni rok. U ovom vodiču su tačni razlozi, rokovi, prava i obračun otpremnine — sa konkretnim brojčanim primerom.
 
@@ -68,7 +68,7 @@ Zaposleni proglašen tehnološkim viškom, sa **10 navršenih godina** rada kod 
 > Otpremnina = 1/3 × prosečna zarada × broj godina staža
 > Otpremnina = (1/3 × 90.000) × 10 = **300.000 dinara**
 
-Minimalna zakonska otpremnina je **300.000 dinara**; poslodavac sme isplatiti više, ali ne manje. **Primer za penziju:** uz poslednju prosečnu neto zaradu u Srbiji od 120.401 din ([prosečna plata u Srbiji](/blog/prosecna-plata-srbija)), minimalna otpremnina pri penzionisanju je 2 × 120.401 = **240.802 dinara**.
+Minimalna zakonska otpremnina je **300.000 dinara**; poslodavac sme isplatiti više, ali ne manje. **Primer za penziju:** uz poslednju prosečnu neto zaradu u Srbiji od 121.346 din ([prosečna plata u Srbiji](/blog/prosecna-plata-srbija)), minimalna otpremnina pri penzionisanju je 2 × 121.346 = **242.692 dinara**.
 
 ## Otkaz ugovora o radu od strane zaposlenog
 

diff --git a/src/rates.js b/src/rates.js
@@ -137,17 +137,17 @@ export const REFERENCE_DATA = {
     obrazac: "PP GPDG",
     izvor: "Poreska uprava — Poreski informator, april 2026",
   },
-  // Prosečna zarada — RZS, jun 2026 (Saopštenje ZR10 br. 228, objavljeno 25.8.2026).
-  // Ažurirano 27.8.2026.
+  // Prosečna zarada — RZS, jul 2026 (Saopštenje ZR10 br. 262, objavljeno 25.9.2026).
+  // Ažurirano 28.9.2026. Kurs: NBS srednji 28.9.2026 (117,4993).
   // NAPOMENA: `objavljeno` se koristi u statičnom tekstu na /prosecna-zarada (pages.jsx,
   // ProsecnaZaradaPage) — ažurirati zajedno sa mesec/neto/bruto svakog refresh-a.
   prosecnaZarada2026: {
-    neto: 120401,
-    bruto: 166123,
-    medijalnaNeto: 94281,
-    mesec: "jun 2026",
-    objavljeno: "25. avgusta 2026",
-    kursEur: 117.39,
+    neto: 121346,
+    bruto: 167402,
+    medijalnaNeto: 95036,
+    mesec: "jul 2026",
+    objavljeno: "25. septembra 2026",
+    kursEur: 117.5,
     izvor: "RZS",
   },
   // Državni praznici i neradni dani u Srbiji za 2026.

diff --git a/src/posts/kupovna-moc-plate-2016-2026.js b/src/posts/kupovna-moc-plate-2016-2026.js
@@ -43,7 +43,7 @@ Kolona "vrednost u današnjim parama" pokazuje koliko bi ta plata vredela danas,
 
 **Šta se vidi iz tabele:** kupovna moć je rasla u osam od devet godina. Jedini pad je 2022. Najbrži rast dogodio se u poslednje dve godine (2024. i 2025.), kada je inflacija pala na 4,3% odnosno 2,7%, pa je gotovo ceo nominalni rast plata ostao zaposlenima.
 
-*(Napomena: jun 2026. donosi prosečnu platu od 120.401 dinara, ali ta cifra nije uporediva sa gornjim nizom — to je jedan mesec, a ne godišnji prosek, i podaci o inflaciji za celu 2026. još ne postoje.)*
+*(Napomena: jul 2026. donosi prosečnu platu od 121.346 dinara, ali ta cifra nije uporediva sa gornjim nizom — to je jedan mesec, a ne godišnji prosek, i podaci o inflaciji za celu 2026. još ne postoje.)*
 
 ## Zašto je 2022. bila jedina loša godina
 

diff --git a/src/pages.jsx b/src/pages.jsx
@@ -993,7 +993,7 @@ export function ProsecnaZaradaPage() {
       { href: "/minimalna-zarada", label: "Minimalna zarada — minimalac 2026. i 2027." },
       { href: "/stope-doprinosa-2026", label: "Stope doprinosa 2026" },
     ],
-    sourceNote: (<>Izvor: {p.izvor}, {p.mesec}. Kurs: 1 € = {p.kursEur} RSD (NBS).</>),
+    sourceNote: (<>Izvor: {p.izvor}, {p.mesec}. Kurs: 1 € = {p.kursEur.toLocaleString("sr-RS", { minimumFractionDigits: 2 })} RSD (NBS).</>),
   }} />;
 }
 
